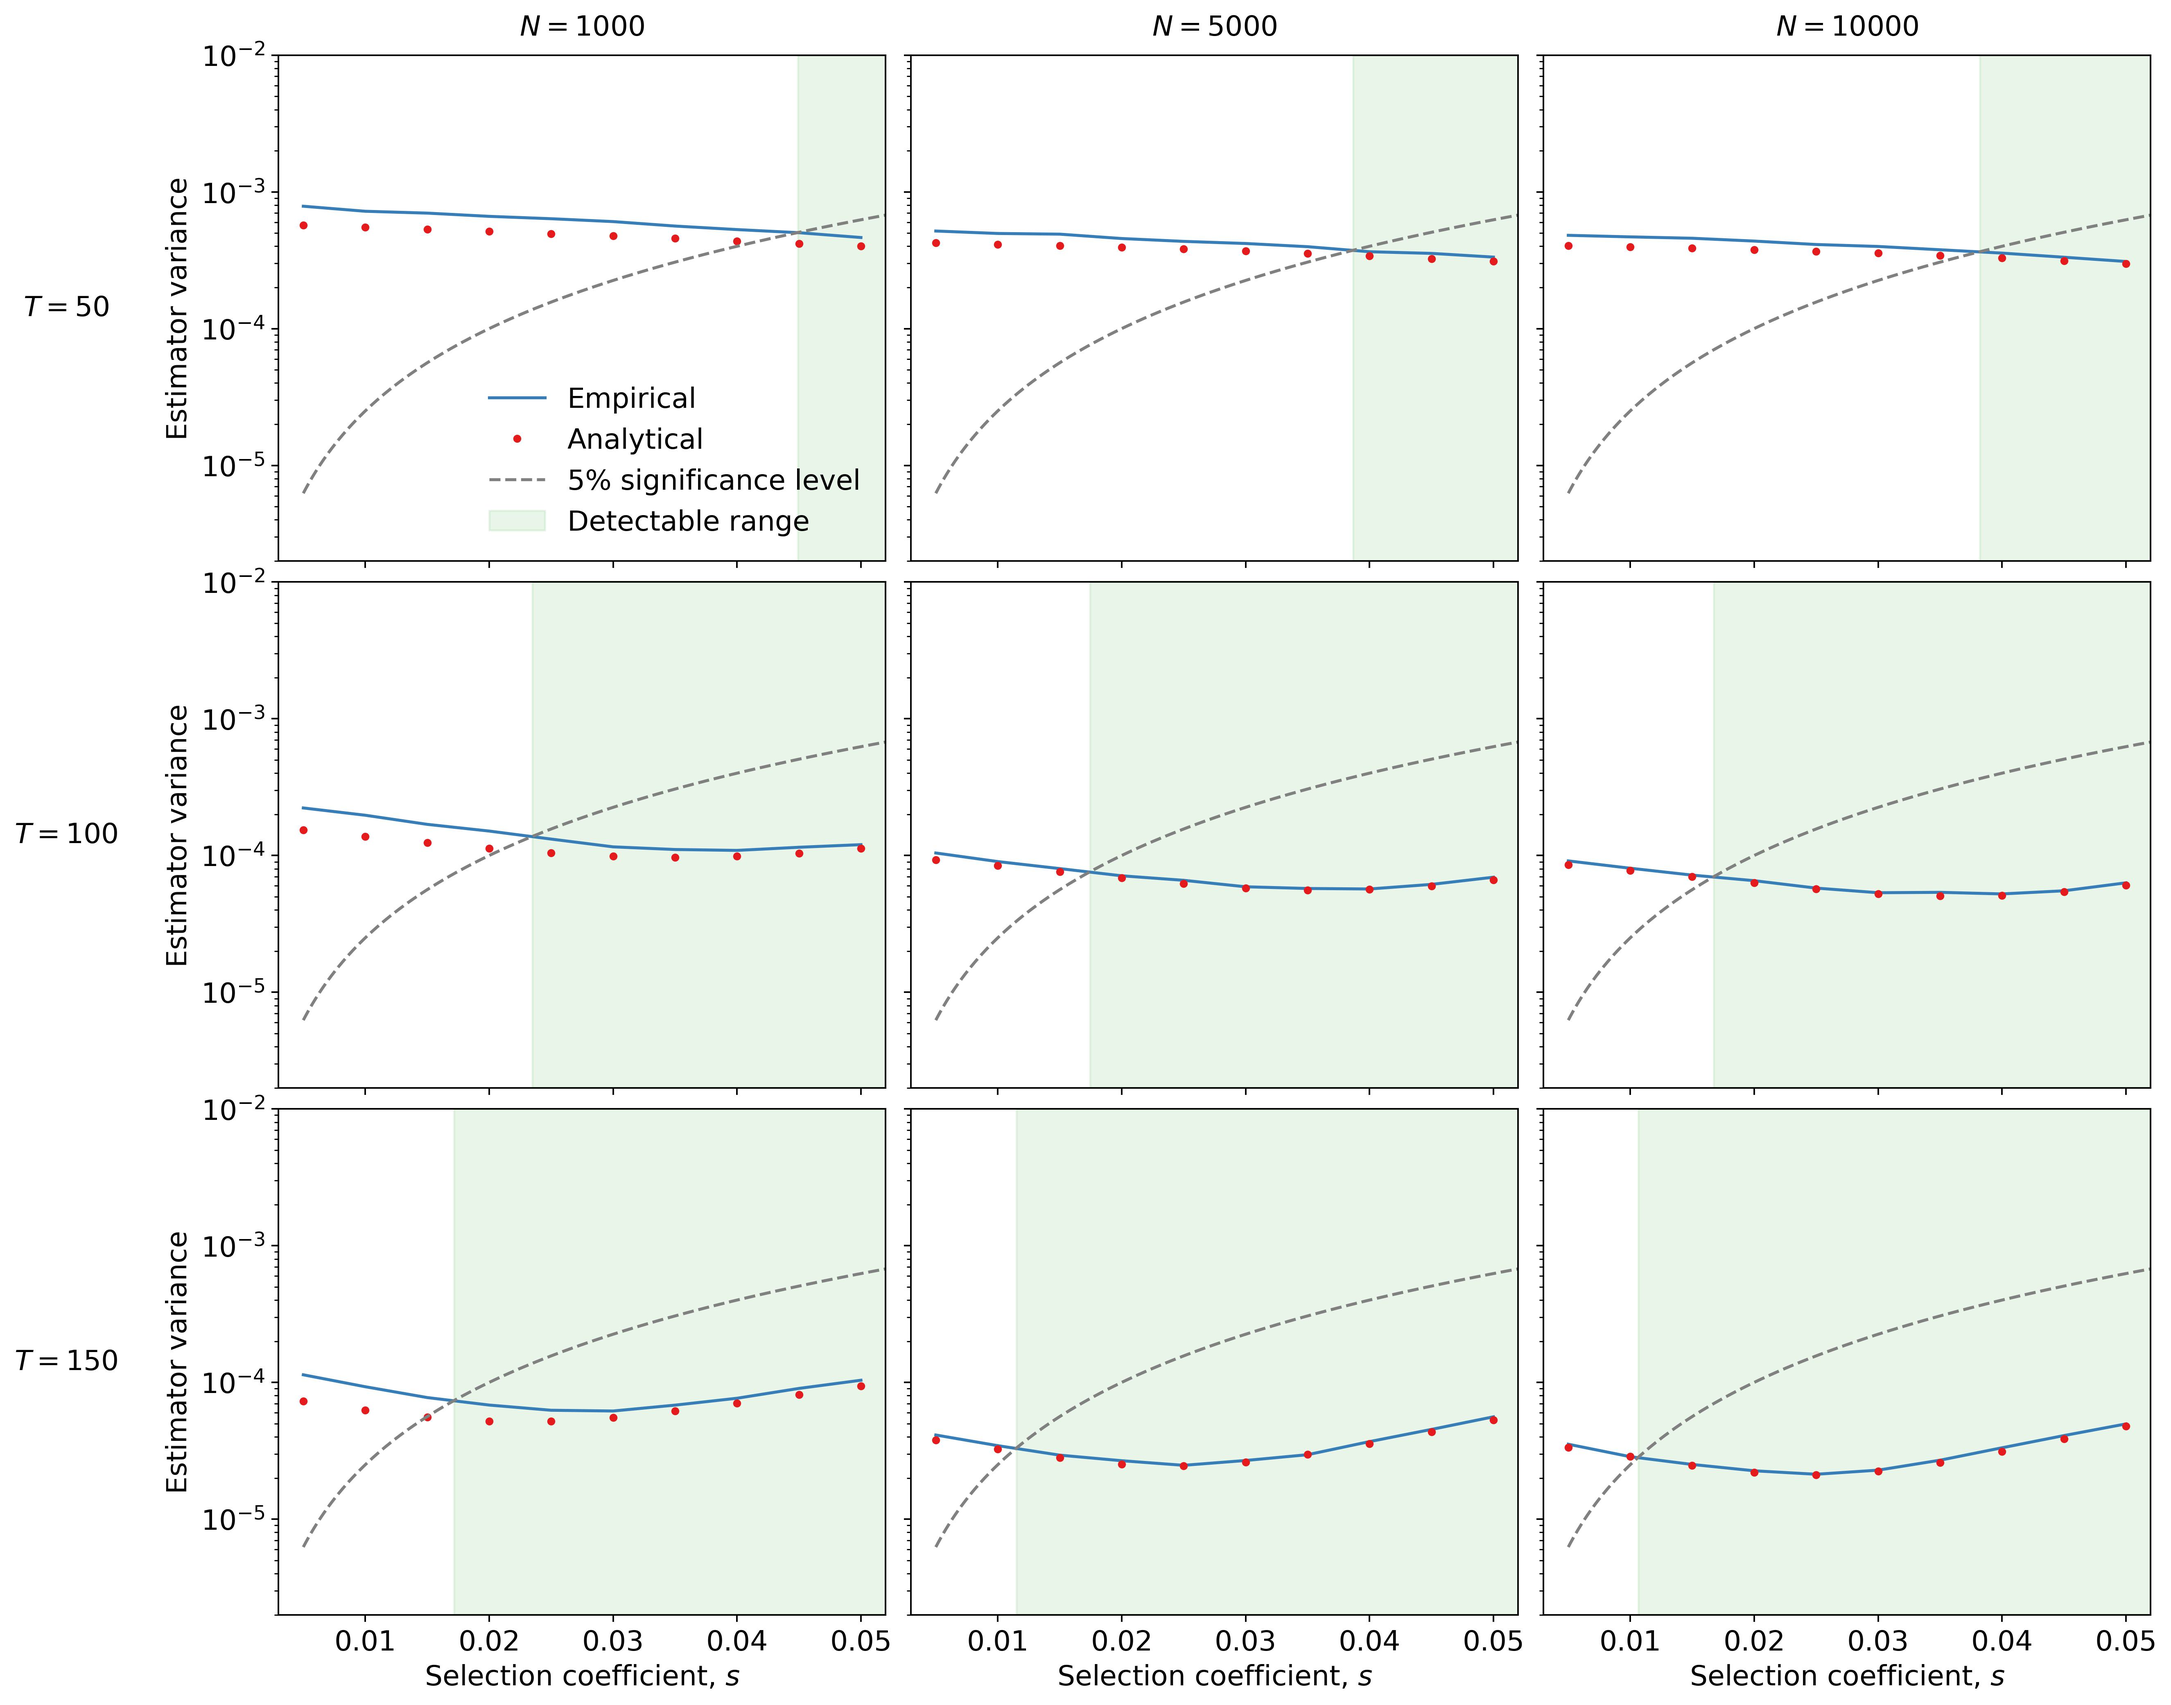
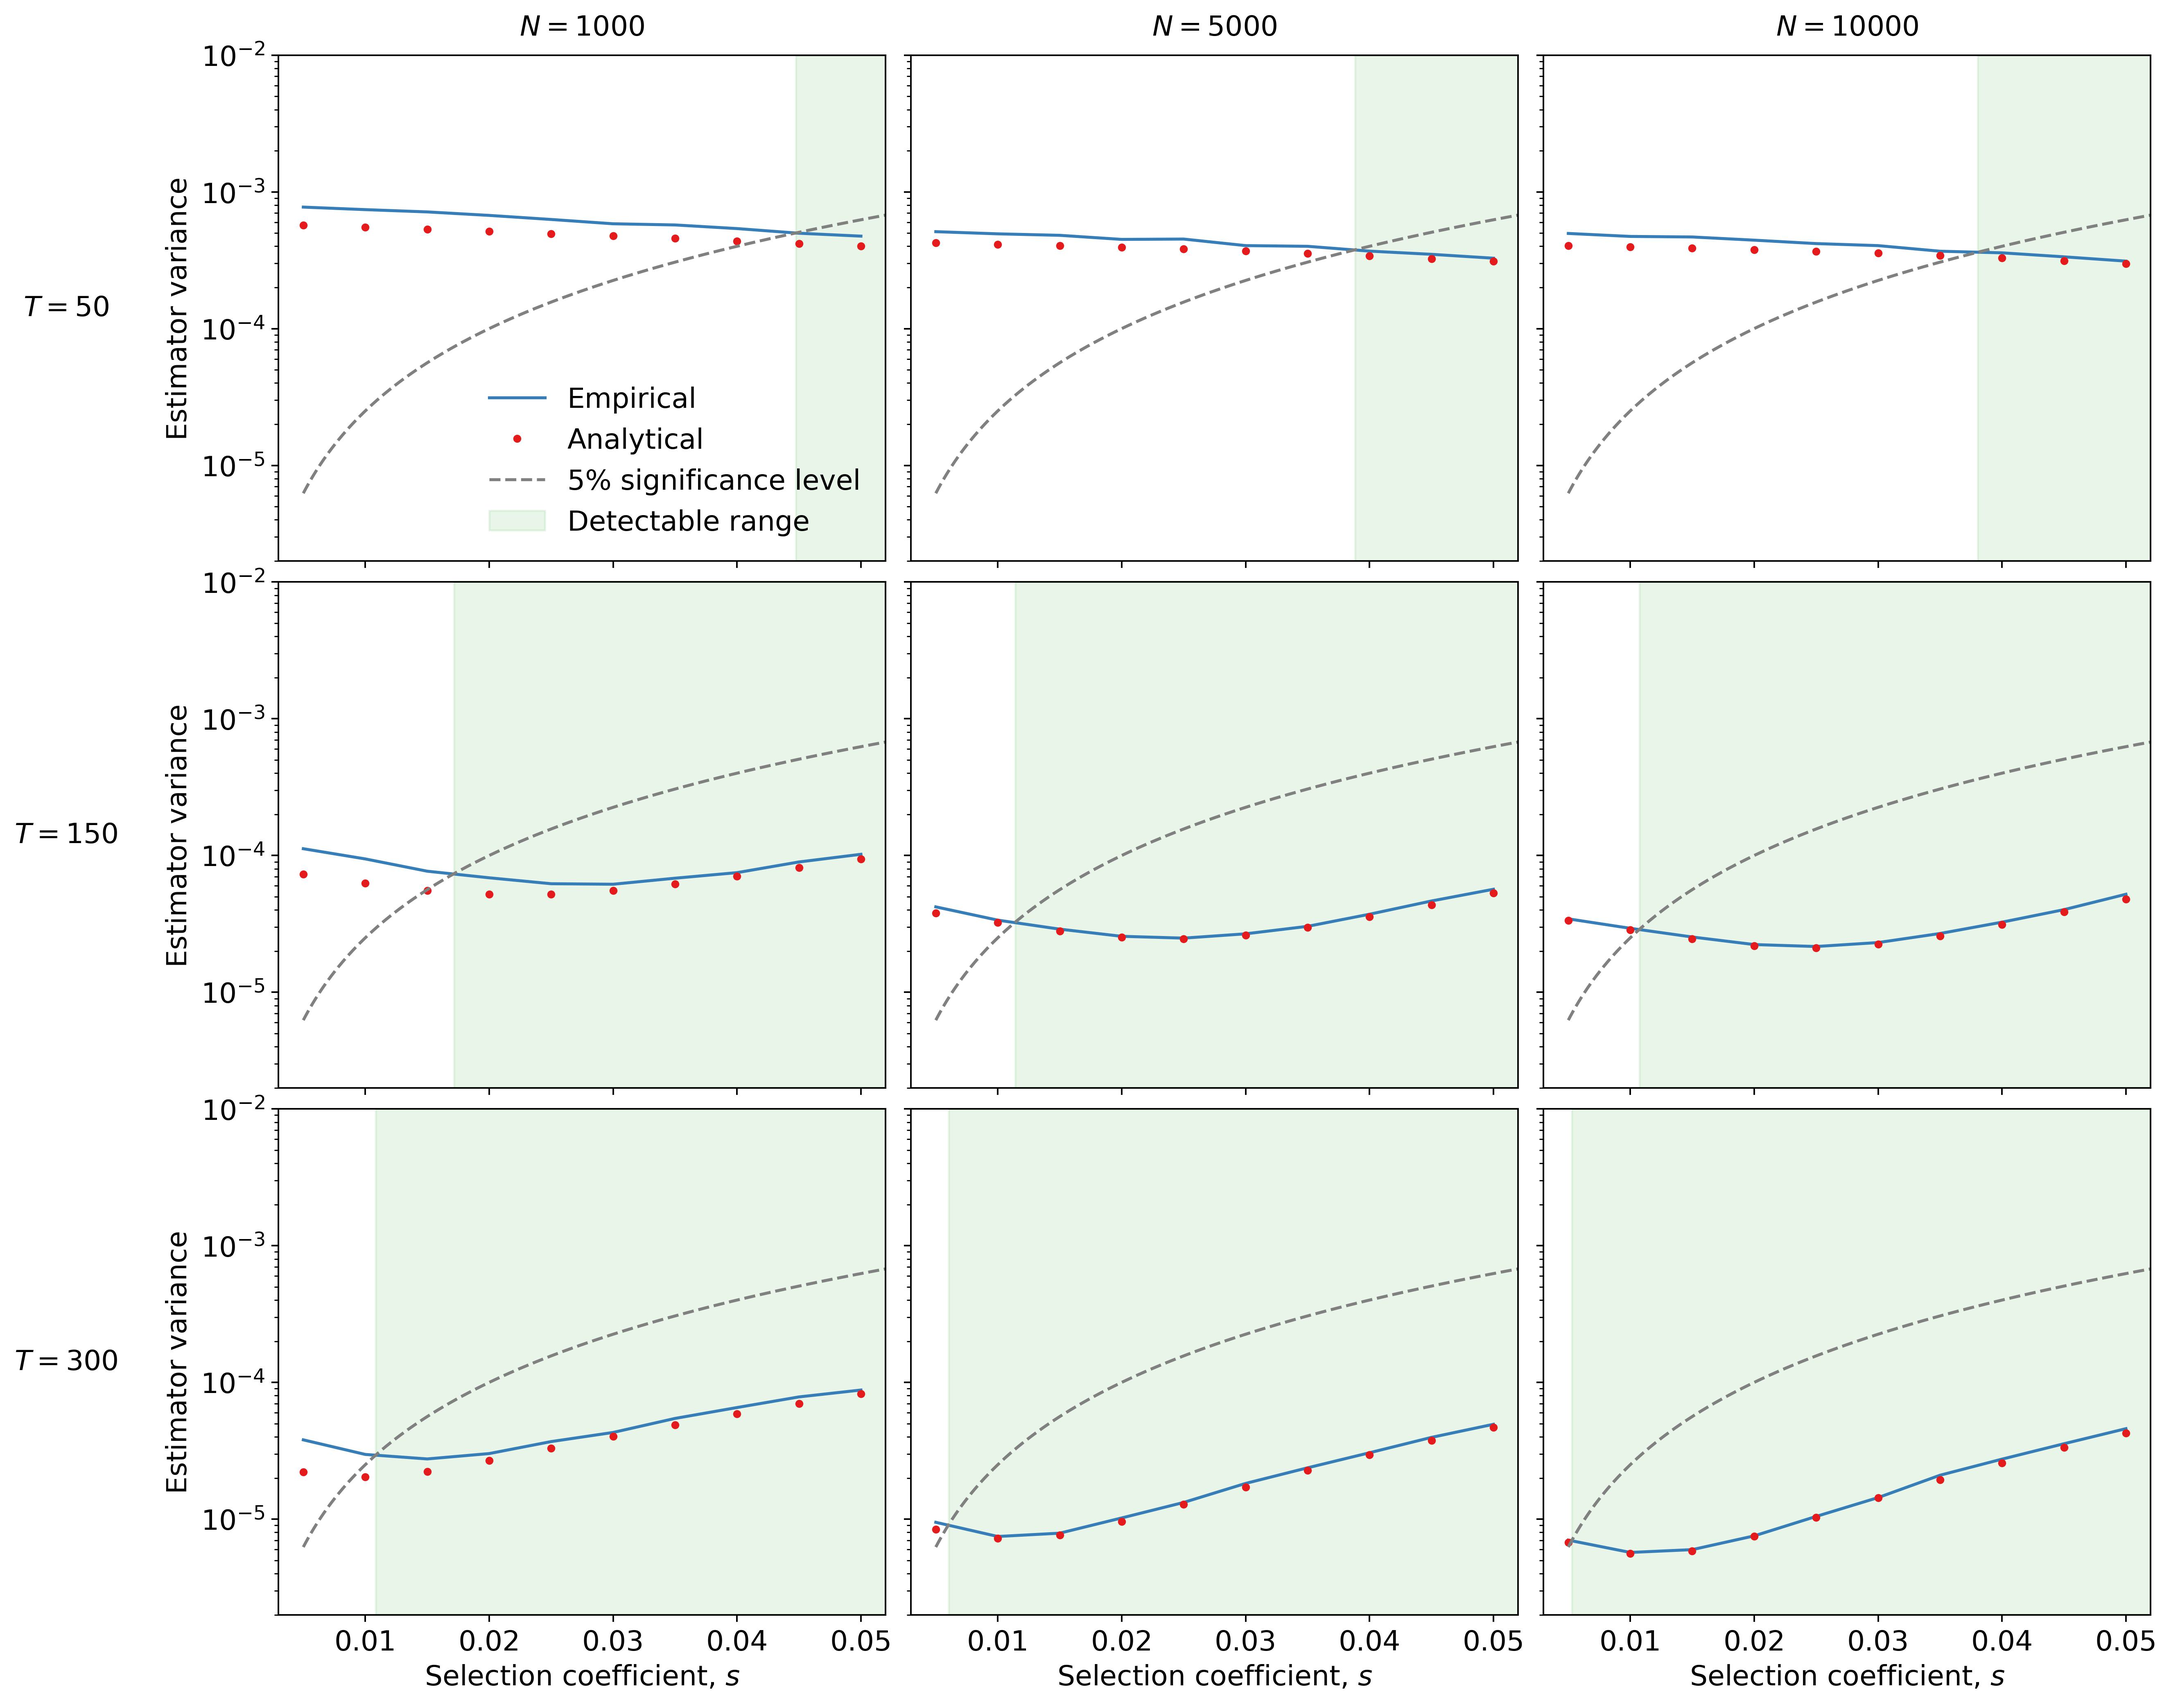
Updated Supplementary Figure S11

diff --git a/SuppFig11 PracticalImplication.py b/SuppFig11 PracticalImplication.py
@@ -23,7 +23,7 @@ Palette = sns.color_palette('Set1')
 
 dt = 10
 ns = 20
-T_interests = [51,101,151]
+T_interests = [51,151,301]
 N_indices = [0,1,2] # Different values of population sizes used to simulate the WF trajectories
 
 x_values = np.linspace(0.005,0.0525,1001)
